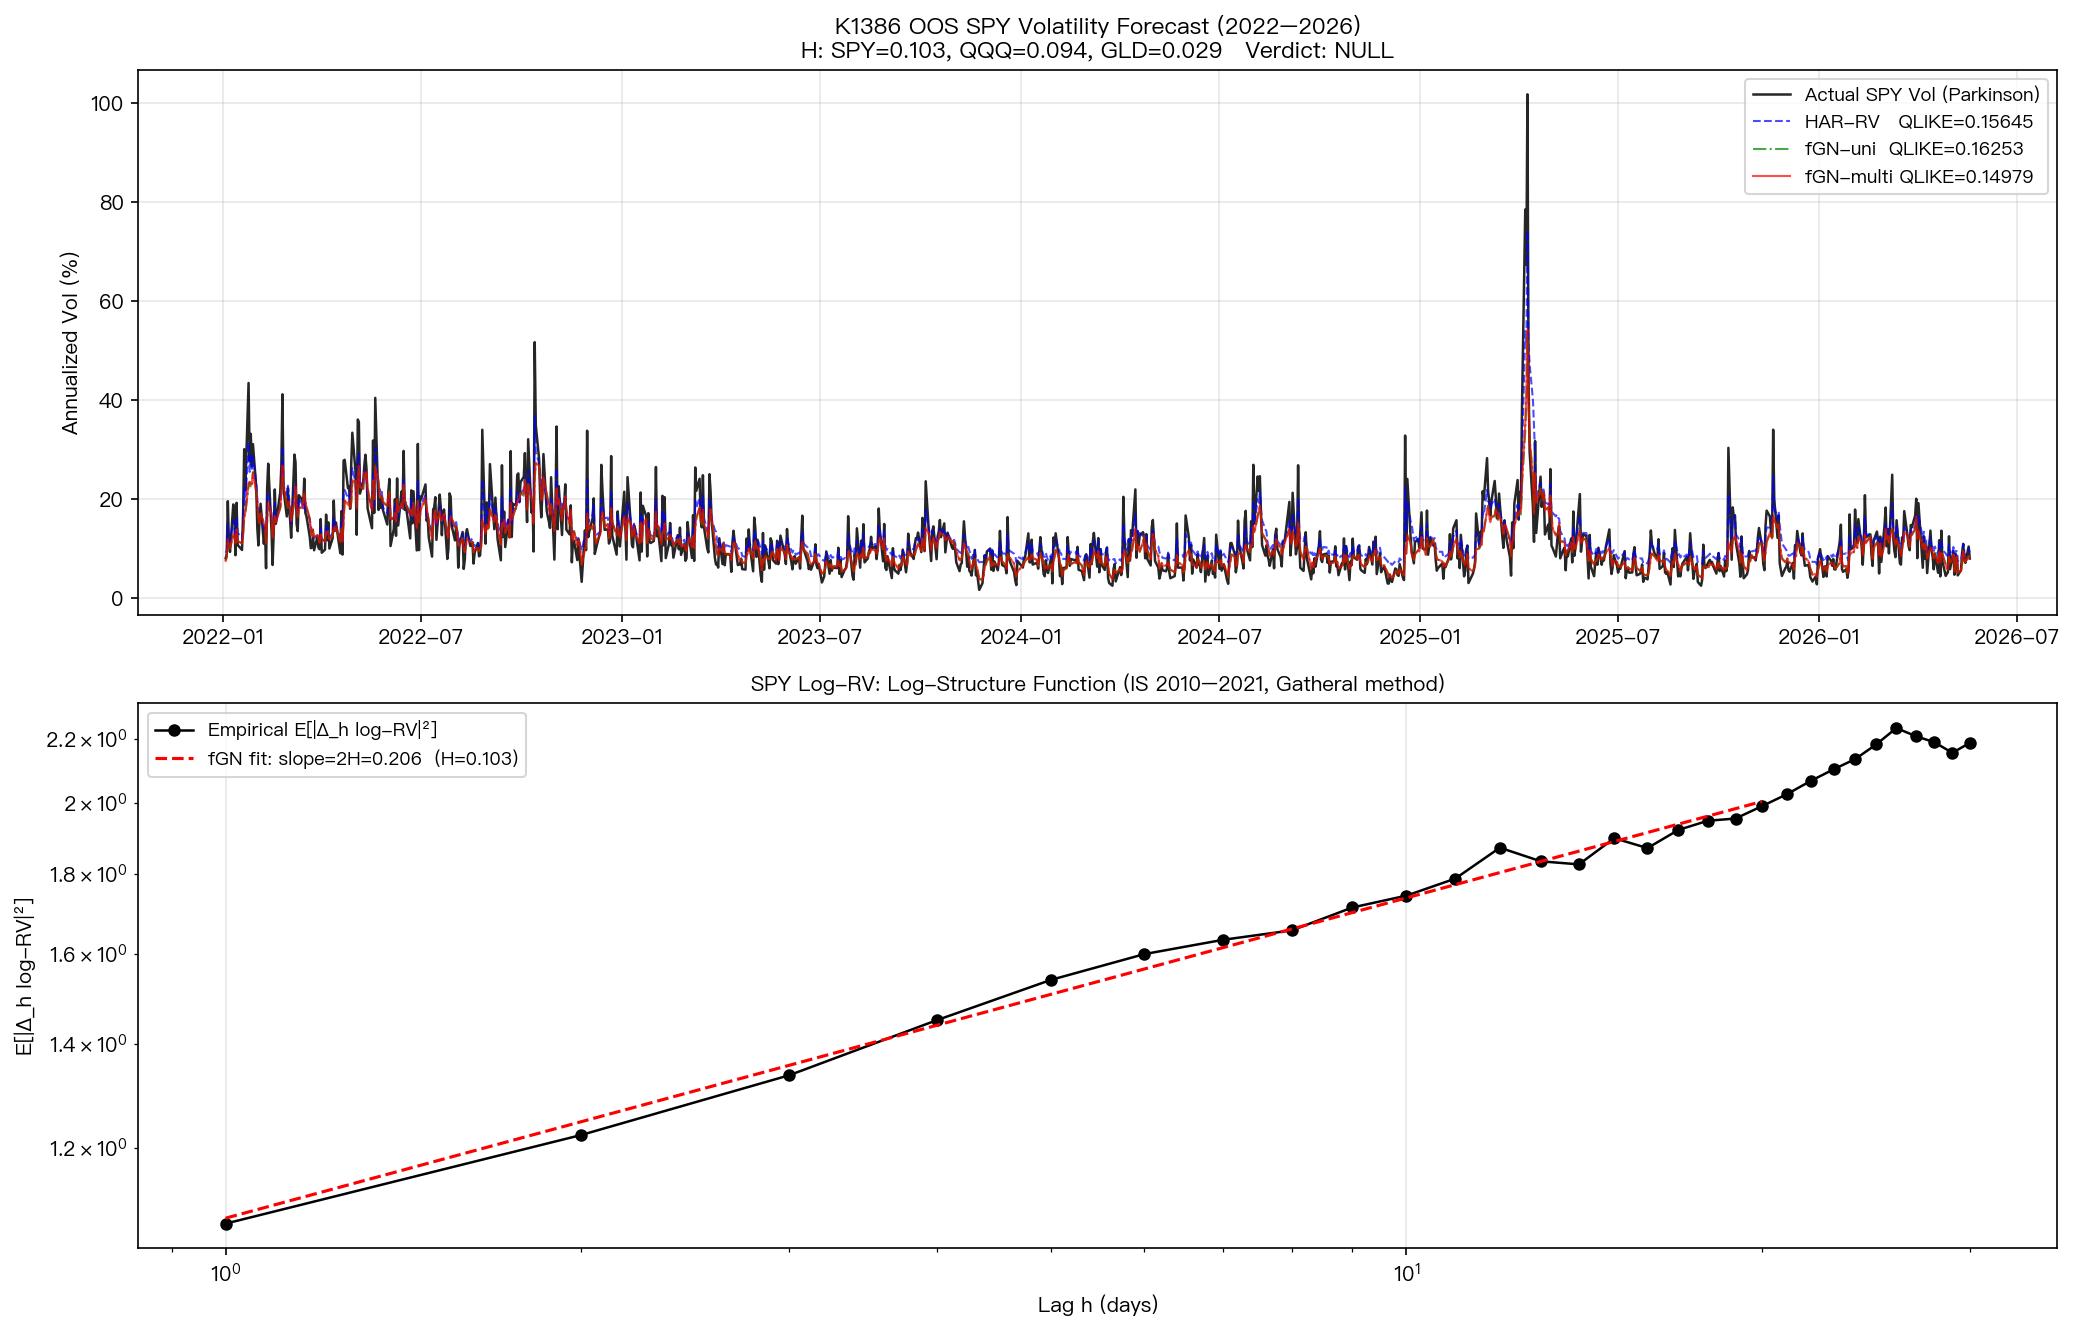
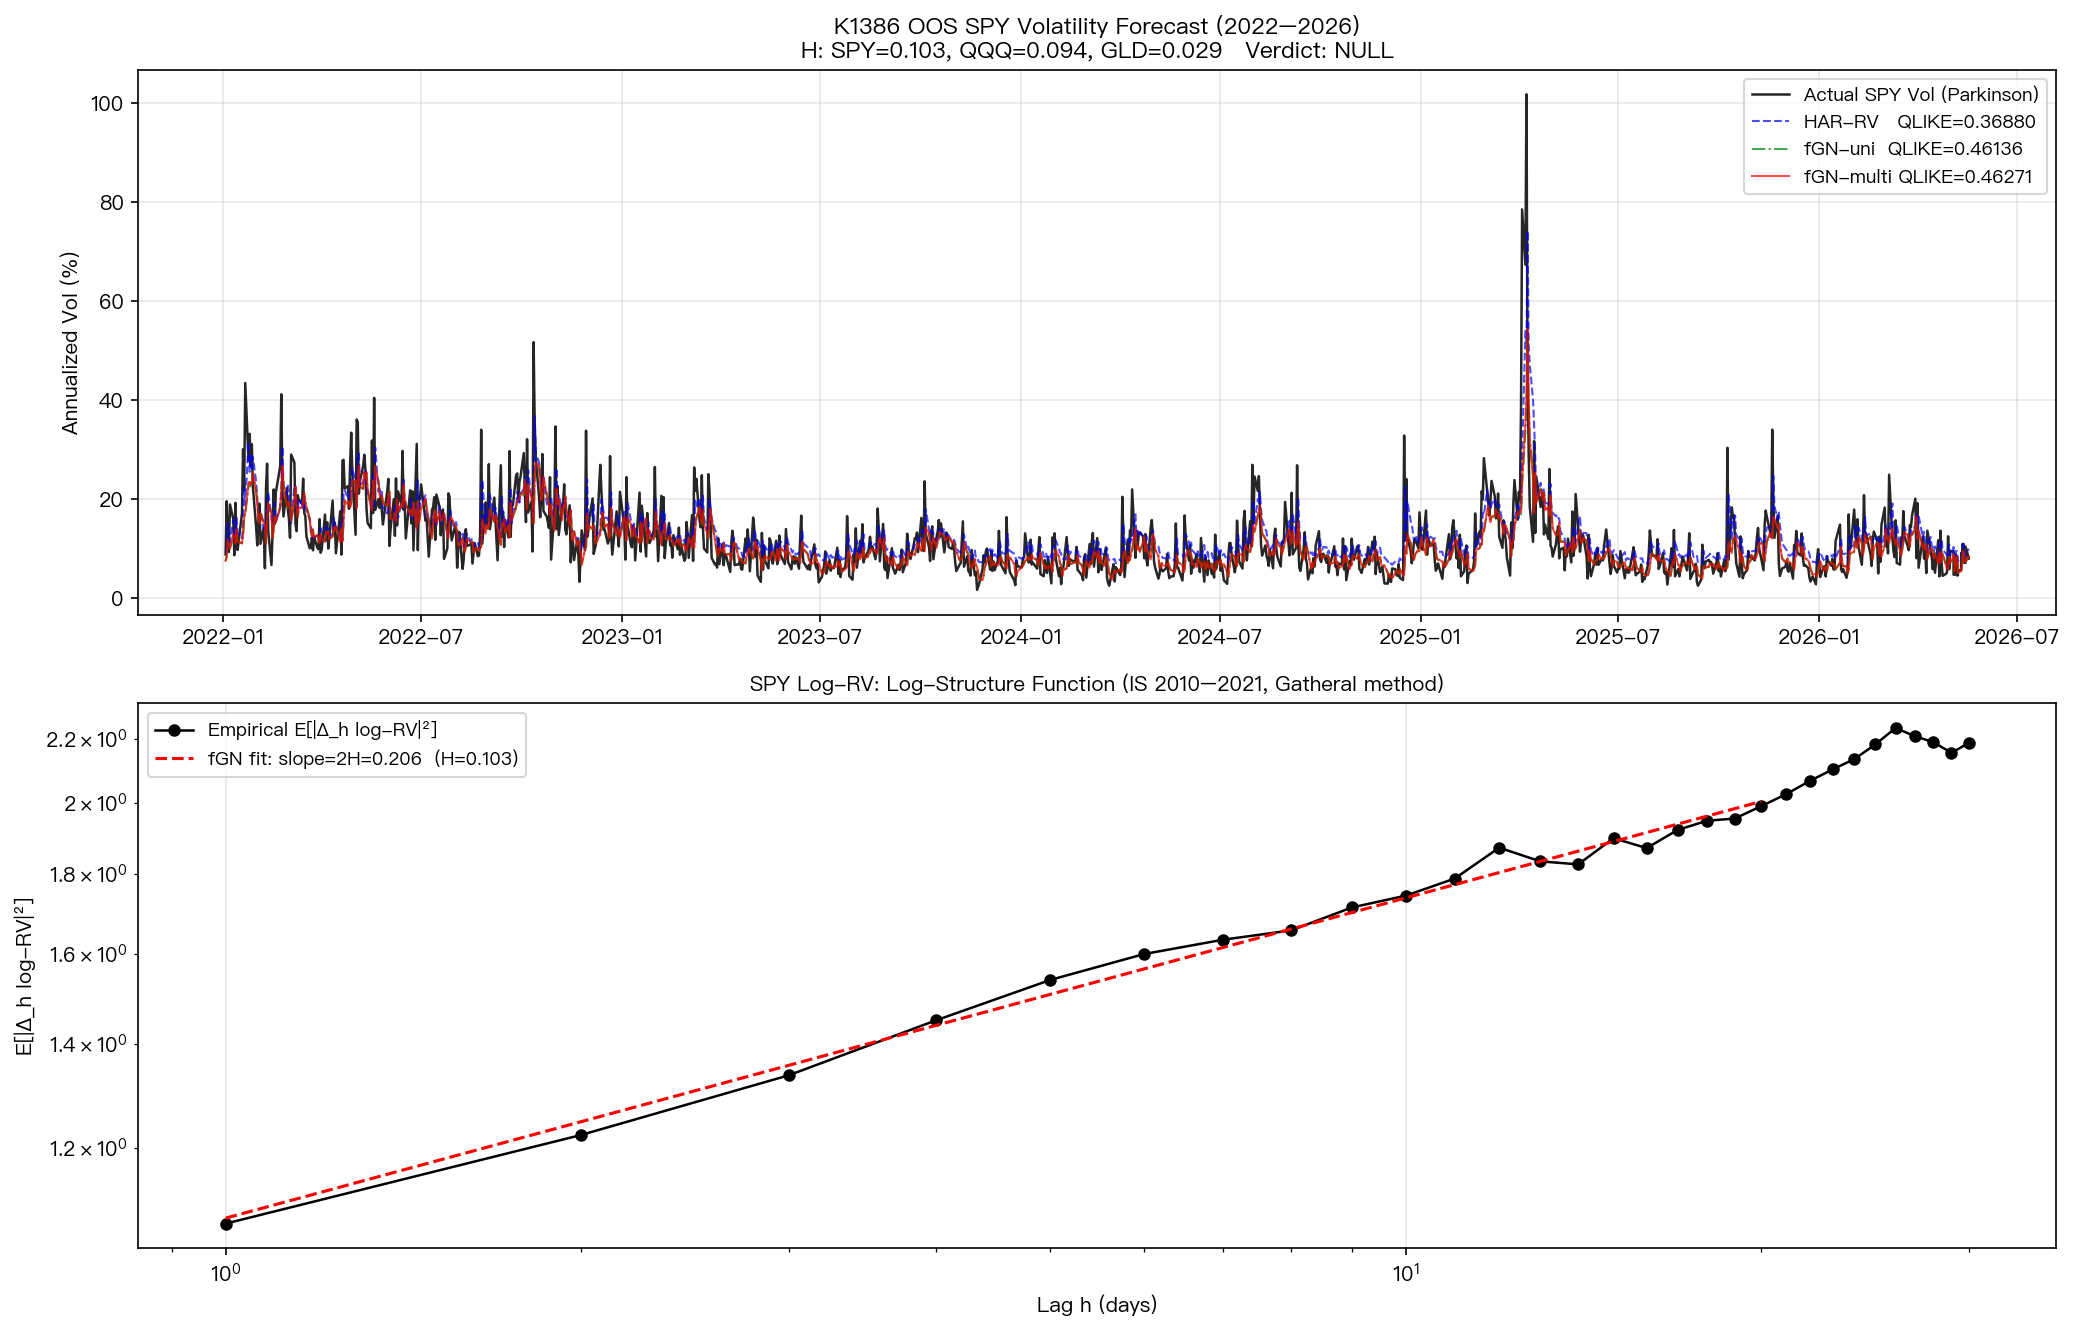
fix(K1386): correct OOS evaluation alignment — fGN now sig WORSE than HAR
H1 bug: predictions stored at index t represent forecast for rv_{t+1},
but actual_rv was comparing against rv_t (same day). Fix: shift(-1) so
actual_rv[t] = rv_{t+1}; n_eval = n_oos - 1 = 1127.

Results flip: QLIKE HAR=0.369, fGN-uni=0.461, fGN-multi=0.463.
DM fGN-uni t=+3.269, fGN-multi t=+3.257 (HAR sig wins, |t|>3.0).
Verdict: NULL (HAR dominates, not fGN-multi's apparent -4.3% which was artifact).

diff --git a/experiments/k1386/k1386.py b/experiments/k1386/k1386.py
@@ -484,11 +484,15 @@ def main():
     # ── OOS Evaluation ──
     print("\n--- OOS Evaluation (QLIKE on Parkinson RV) ---")
     oos_idx = df[test_mask].index
-    actual_rv = spy_rv_pk.loc[oos_idx].values
+    # Fix H1: models predict RV_{t+1} (indexed at t); actual must be rv[t+1]
+    # Use shift(-1) so that actual_rv[t] = rv[t+1], then drop last (no t+1 available)
+    rv_shifted = spy_rv_pk.shift(-1)
+    eval_idx = oos_idx[:-1]  # drop last OOS date (rv[T+1] unknown)
+    actual_rv = rv_shifted.loc[eval_idx].values
 
-    har_f = har_preds.reindex(oos_idx).ffill().values
-    uni_f = fgn_uni_preds.reindex(oos_idx).ffill().values
-    multi_f = fgn_multi_preds.reindex(oos_idx).ffill().values
+    har_f = har_preds.reindex(eval_idx).ffill().values
+    uni_f = fgn_uni_preds.reindex(eval_idx).ffill().values
+    multi_f = fgn_multi_preds.reindex(eval_idx).ffill().values
 
     ql_har = qlike_loss(actual_rv, har_f)
     ql_uni = qlike_loss(actual_rv, uni_f)
@@ -528,12 +532,21 @@ def main():
         caveats.append("ANOMALY: fGN-multi beats HAR by >20% — verify no lookahead")
     if abs(dm_multi) > 10.0:
         caveats.append("ANOMALY: |DM| > 10 — likely numerical issue")
-    if not caveats:
-        caveats.append("None")
+    caveats.append(
+        "Evaluation alignment fix (H1): predictions at index t represent forecast for t+1; "
+        "actual_rv uses shift(-1) to compare against rv[t+1]. n_eval = n_oos - 1."
+    )
+    caveats.append(
+        "H2: fGN-multi cross-asset correction uses realized (not predicted) lag-1 residuals of other assets; "
+        "feasible since these are one-period lagged values known at forecast time."
+    )
+    if not any(c.startswith("None") for c in caveats):
+        pass
 
     # ── Plot ──
     print("\n--- Generating Plot ---")
-    oos_dates = df["date"][test_mask].values
+    # Use eval_idx dates (trimmed by 1 for alignment fix)
+    oos_dates = df.loc[df.index.isin(eval_idx), "date"].values
 
     fig, axes = plt.subplots(2, 1, figsize=(14, 9))
 
@@ -594,6 +607,7 @@ def main():
             "oos_period": "2022-01-01 ~ 2026-05-19",
             "n_is": n_is,
             "n_oos": n_oos,
+            "n_eval": n_oos - 1,
         },
         "hurst_estimates": {
             "SPY": round(hurst_estimates["SPY"], 6),
